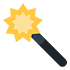
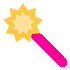
1.修改了魔法棒（仙女棒好像更好听？ 2.增加了选择道具会的动画效果

Changed region(s): [[0.4571, 0.4571, 0.9714, 0.9714]]

diff --git a/src/gui/GameWinControllor.java b/src/gui/GameWinControllor.java
@@ -1,8 +1,6 @@
 package gui;
 
-import javafx.animation.FadeTransition;
-import javafx.animation.Transition;
-import javafx.animation.TranslateTransition;
+import javafx.animation.*;
 import javafx.application.Platform;
 import javafx.beans.property.IntegerProperty;
 import javafx.beans.property.SimpleIntegerProperty;
@@ -63,6 +61,7 @@ public class GameWinControllor {
 			noticeText.setText("    Your score:   "+String.valueOf(score.intValue()));
 			stepLabel.setText("No steps limit!");
 			stepProgressBar.setProgress(-1);
+			stepLabel.setLayoutX(997);
 		}
 		else{
 			noticeText.setText("Your score:"+String.valueOf(score.intValue())+"    Target score:"+Data.targetScore);
@@ -643,8 +642,7 @@ public class GameWinControllor {
 		
 		
 	}
-	
-	
+
 
 	public void onRestartBtnClick(ActionEvent actionEvent) {
 		if(isMoving == false){
@@ -866,6 +864,14 @@ public class GameWinControllor {
 
 	public void setToolSelected(Button tool){
 		tool.setStyle("-fx-effect: dropshadow(gaussian, white, 8, 0.8, 0, 0)");
+		ScaleTransition transition=new ScaleTransition(Duration.seconds(0.5),tool);
+		transition.setFromX(1);
+		transition.setFromY(1);
+		transition.setToX(2);
+		transition.setToY(2);
+		transition.setCycleCount(2);
+		transition.setAutoReverse(true);
+		transition.play();
 	}
 	public void setToolNotSelected(Button tool){
 		tool.setStyle("-fx-effect: null");

diff --git a/src/gui/Main.java b/src/gui/Main.java
@@ -20,7 +20,8 @@ public class Main extends Application{
 				// TODO Auto-generated method stub
 				try {
 					new WelcomeWin().start(new Stage());
-					//new GameWin();
+					Data.setLimit(12);
+					new GameWin();
 				} catch (Exception e) {
 					// TODO Auto-generated catch block
 					e.printStackTrace();
